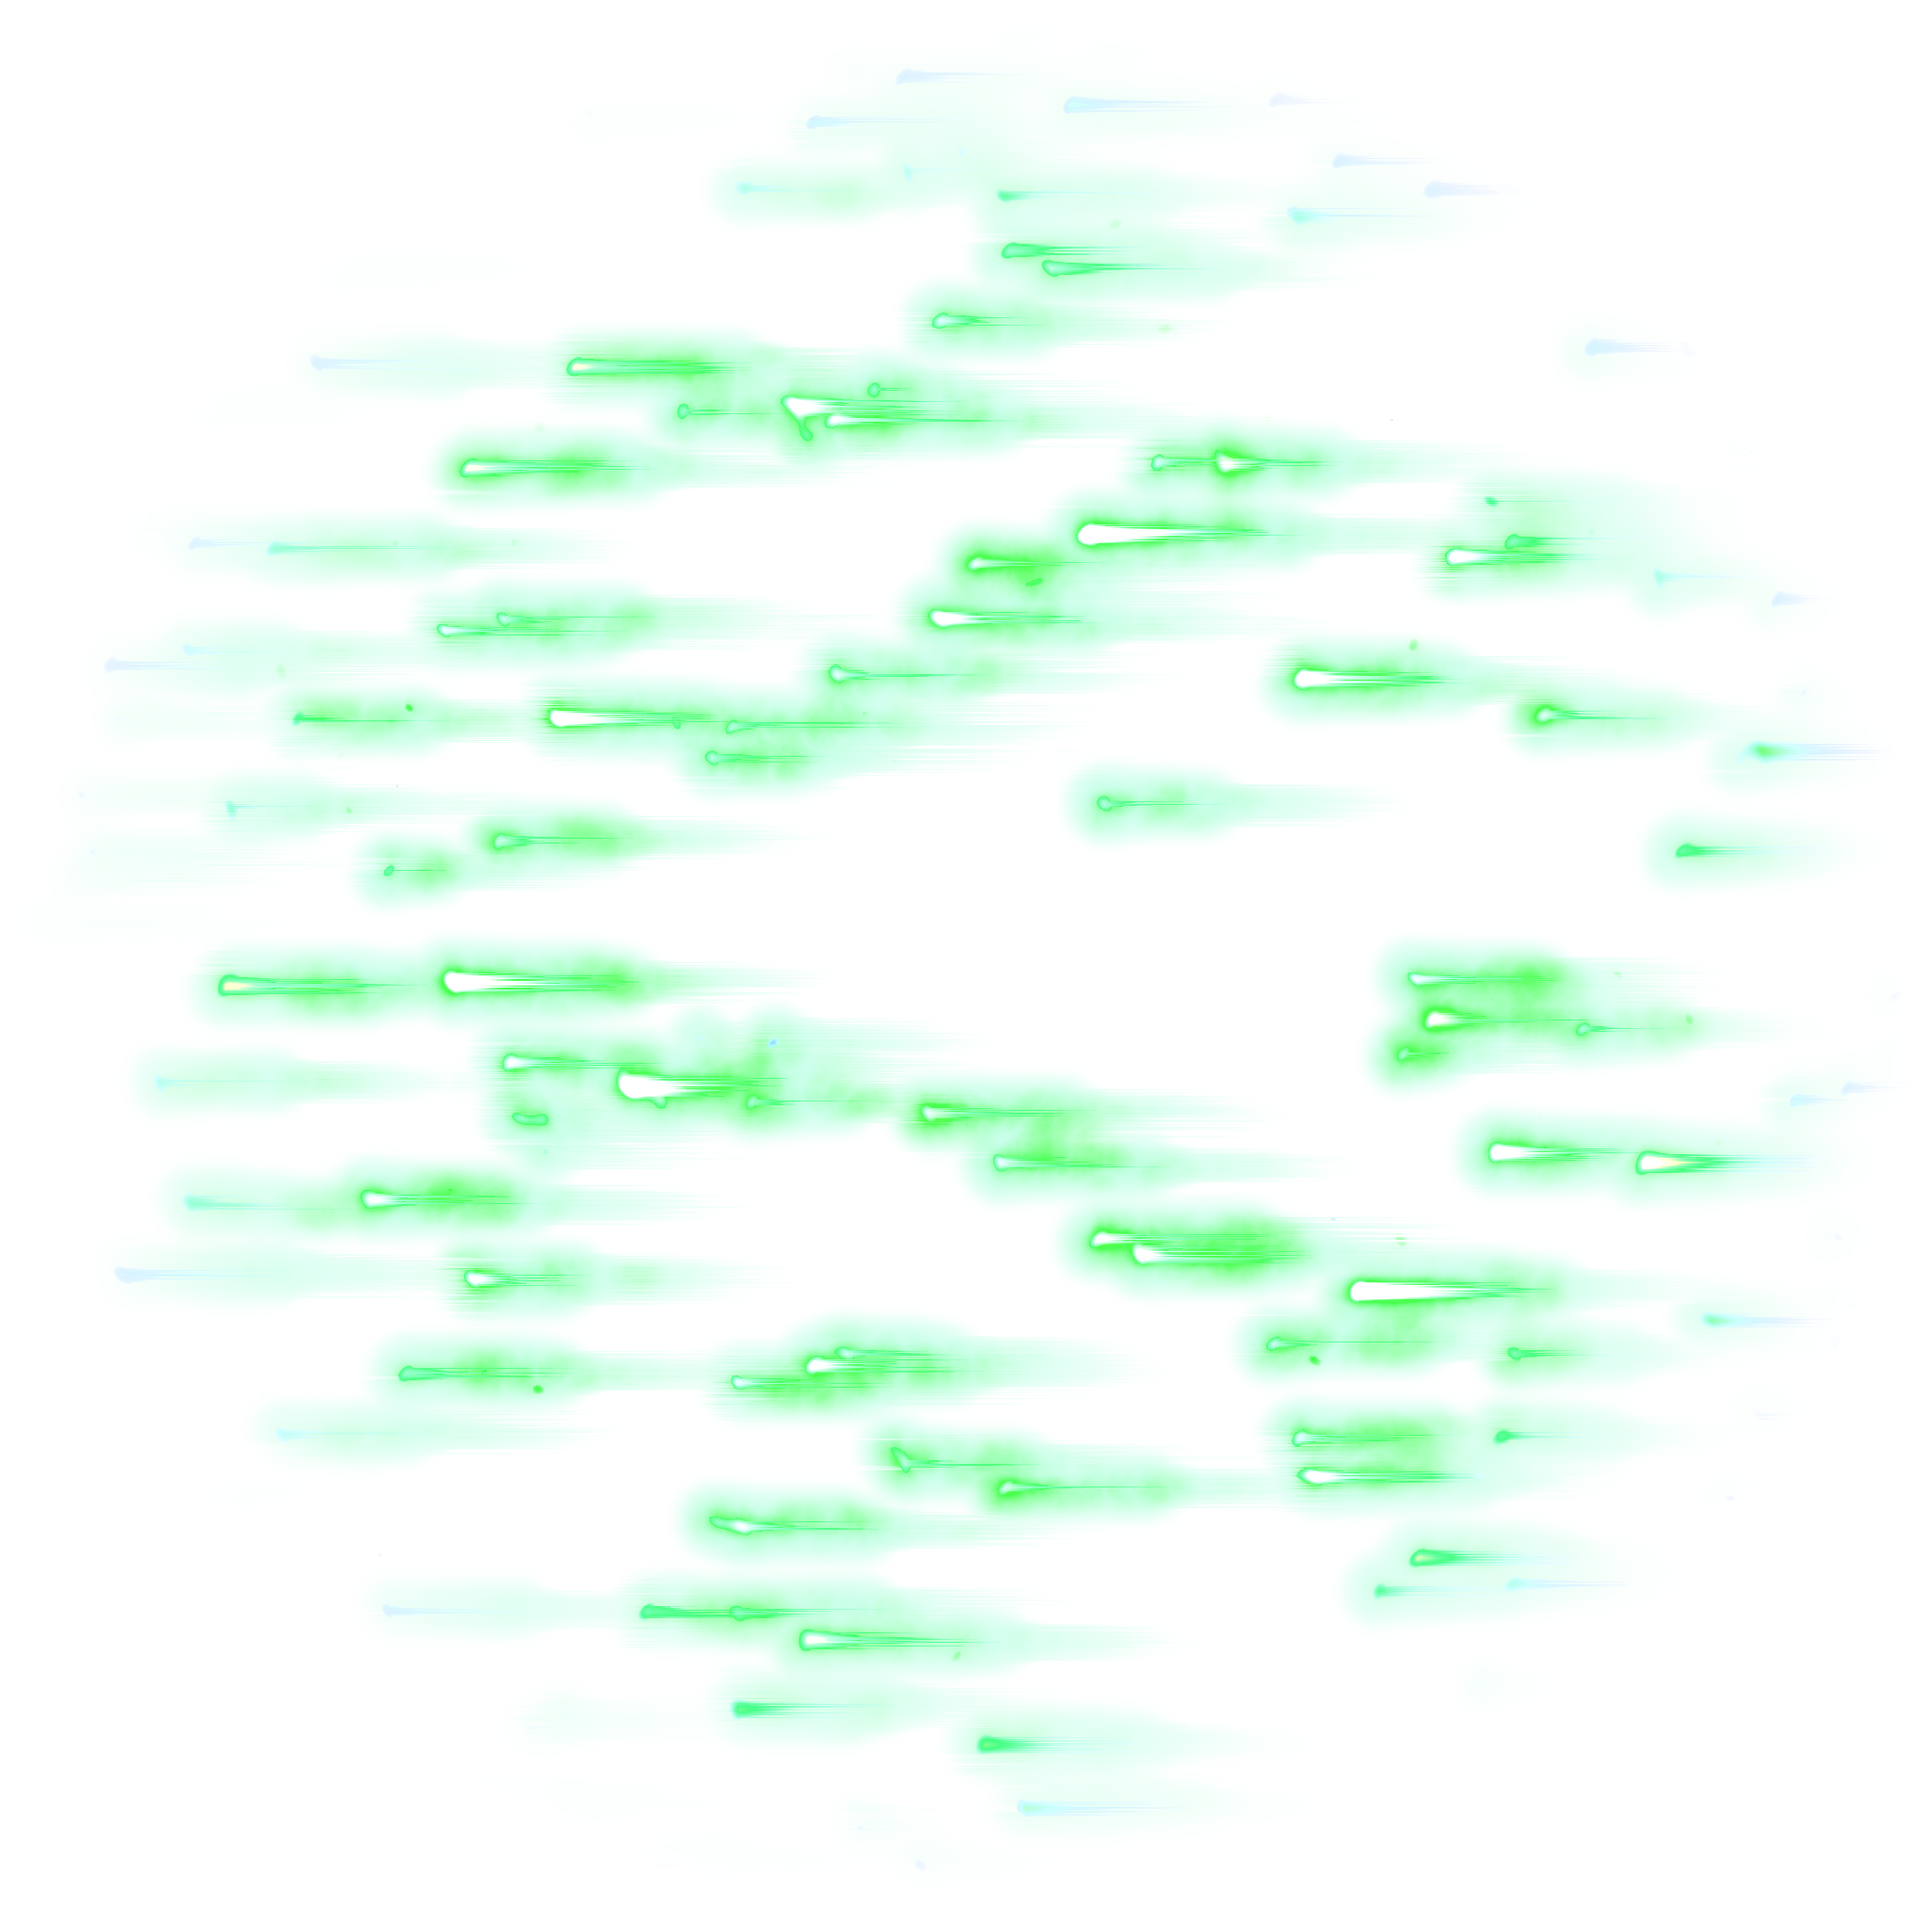
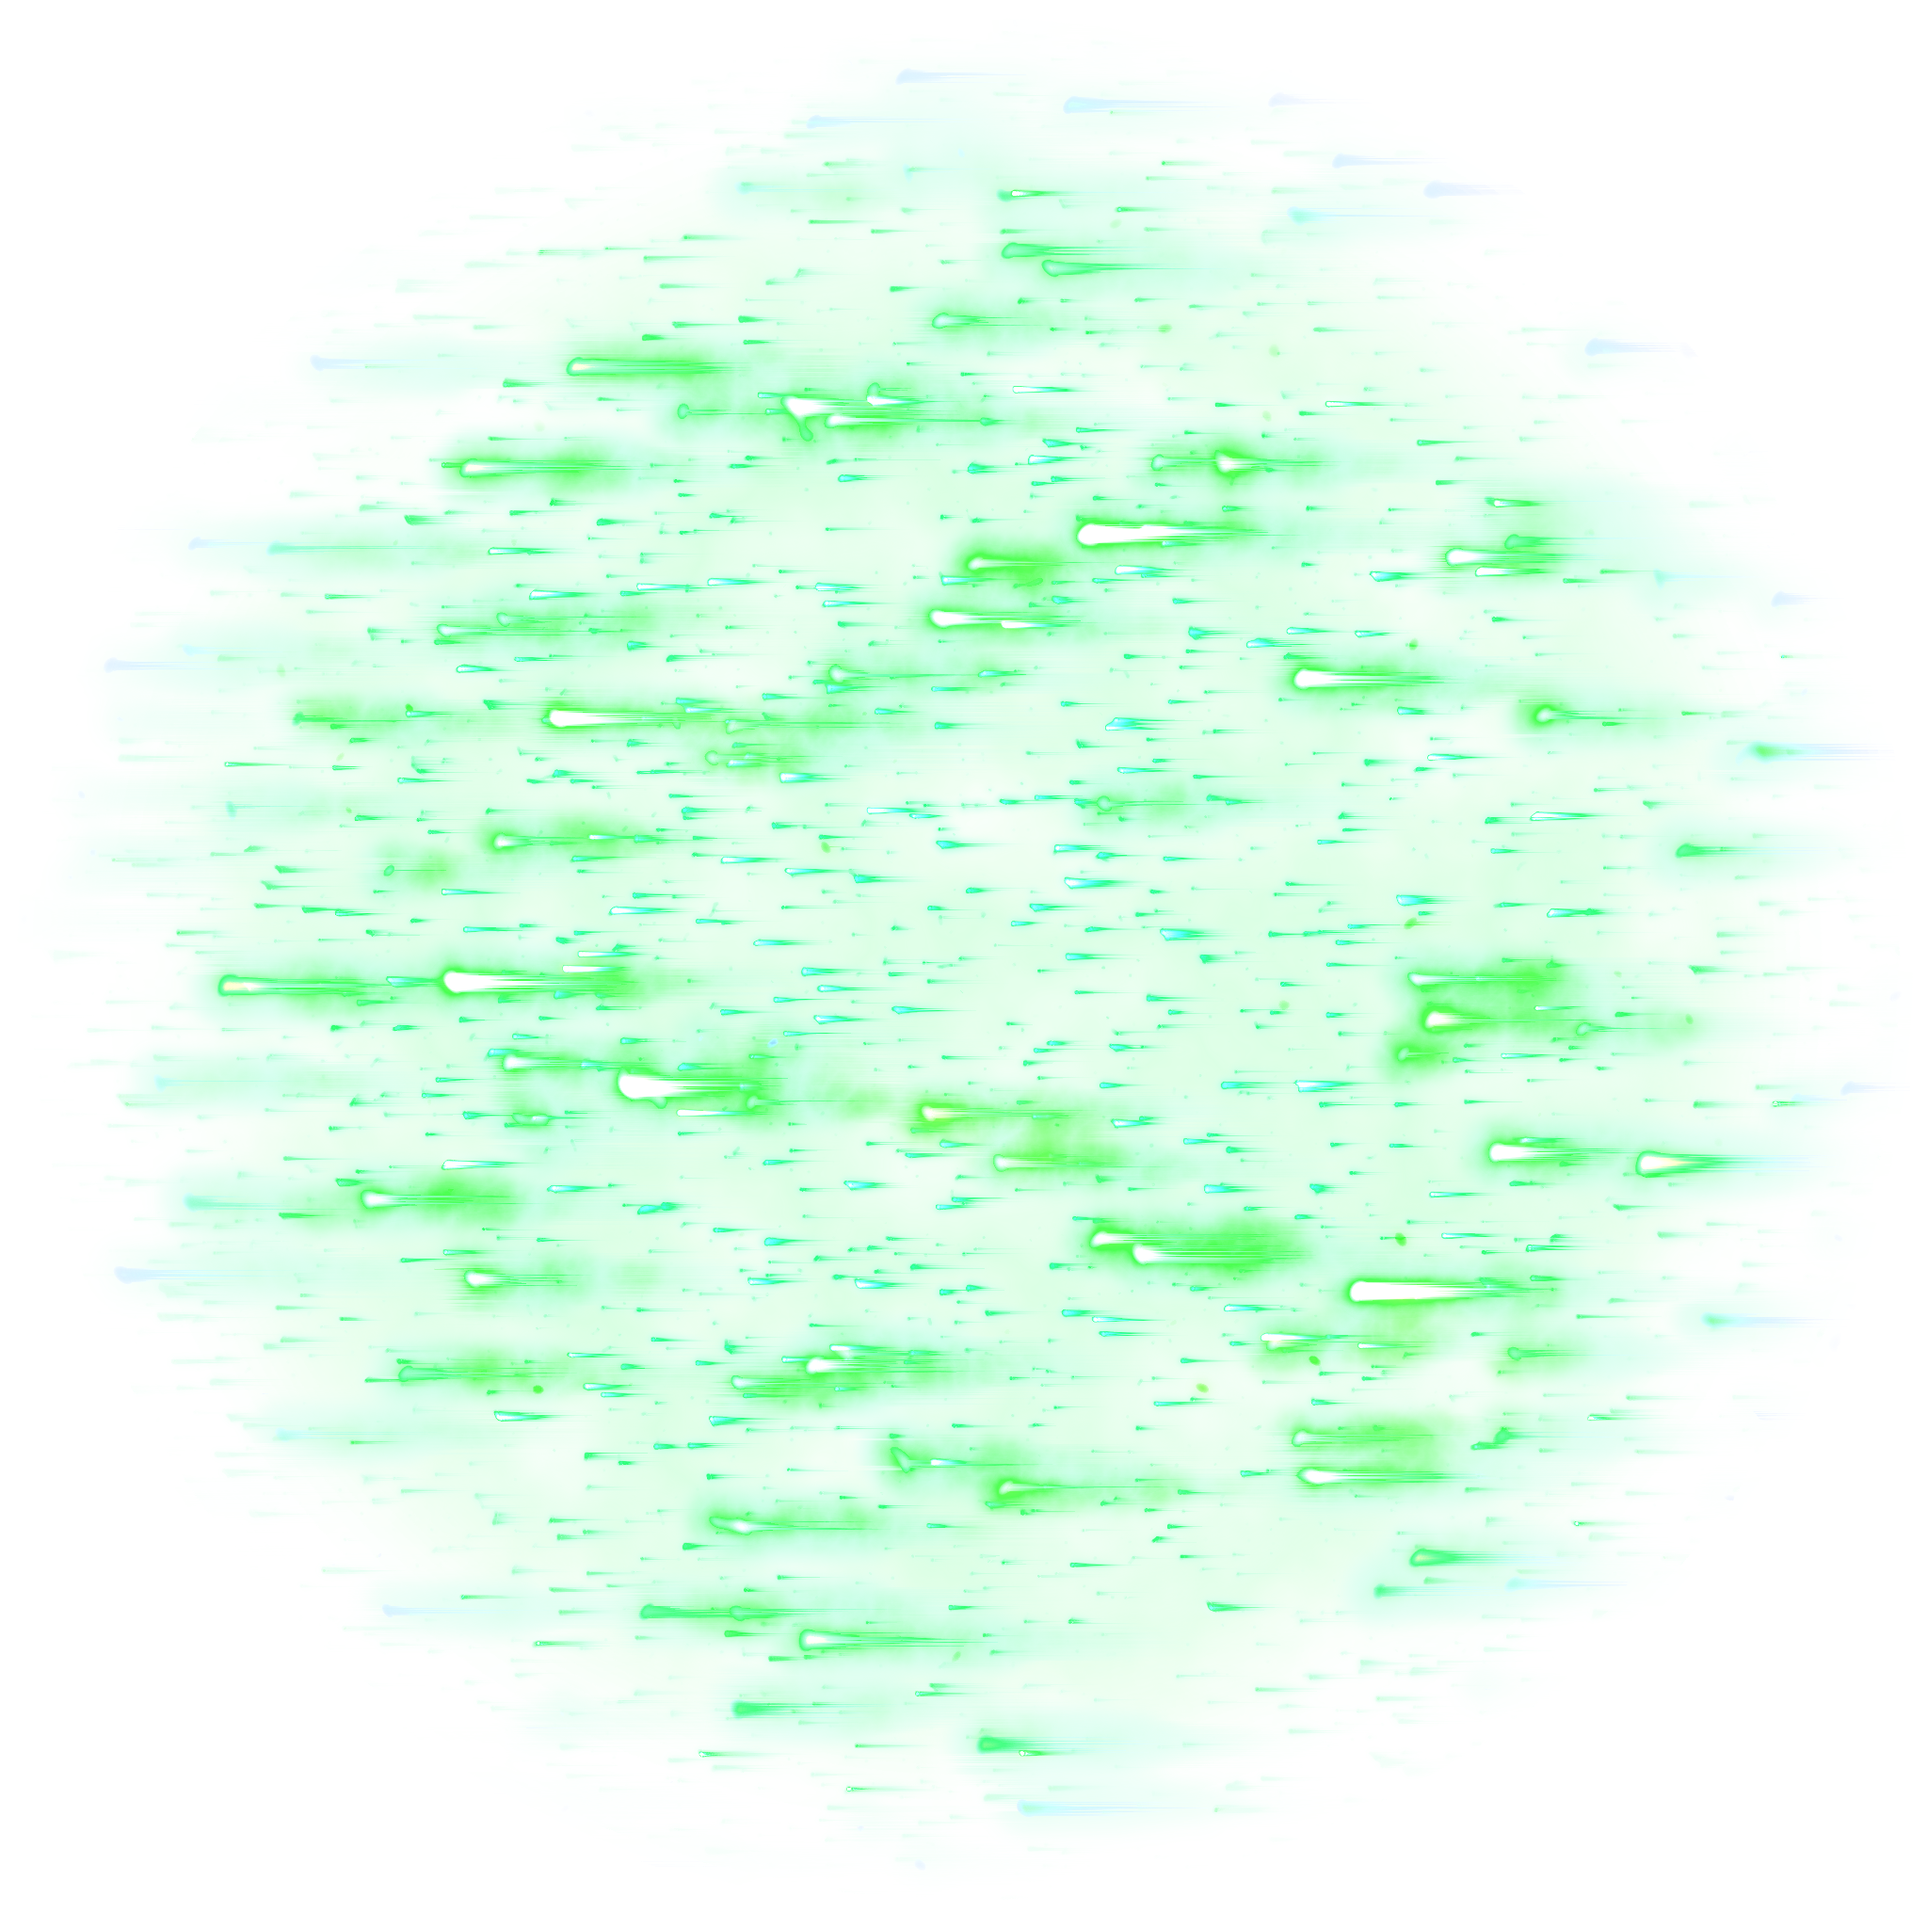
reduce size of star forming nebulae
reduce occurrence of star forming nebulae to 10-15% in empty systems (was 10-20%)

spawn fields anywhere, not just on the periphery

reduce field appearance chance

decrease effect area of all fields by 5%

diff --git a/default/python/turn_events/turn_events.py b/default/python/turn_events/turn_events.py
@@ -26,16 +26,14 @@ def execute_turn_events():
         5: "FLD_VOID_RIFT"
     }
 
-    if random() < max(0.0003 * radius, 0.03):
+    if random() < max(0.00015 * radius, 0.03):
         field_type = field_types.get(randint(1, 5), "FLD_ERROR")
         size = 5.0
         x = y = radius
-        dist_from_center = 0.0
-        while (dist_from_center < radius) or any(hypot(fo.get_x(s) - x, fo.get_y(s) - y) < 50.0 for s in systems):
-            angle = random() * 2.0 * pi
-            dist_from_center = radius + uniform(min(max(radius * 0.02, 10), 50.0), min(max(radius * 0.05, 20), 100.0))
-            x = radius + (dist_from_center * sin(angle))
-            y = radius + (dist_from_center * cos(angle))
+        dist_from_center = uniform(0.35, 1.0) * radius
+        angle = random() * 2.0 * pi
+        x = radius + (dist_from_center * sin(angle))
+        y = radius + (dist_from_center * cos(angle))
 
         print("...creating new", field_type, "field, at distance", dist_from_center, "from center")
         if fo.create_field(field_type, x, y, size) == fo.invalid_object():

diff --git a/default/python/universe_generation/fields.py b/default/python/universe_generation/fields.py
@@ -16,8 +16,8 @@ def generate_fields(systems):
     if not candidates:
         print("...no empty no star systems found, no fields created")
         return
-    # pick 10-20% of all empty no star systems to create stationary fields in them, but at least one
-    accepted = sample(candidates, max(int(len(candidates) * uniform(0.1, 0.2)), 1))
+    # pick 10-15% of all empty no star systems to create stationary fields in them, but at least one
+    accepted = sample(candidates, max(int(len(candidates) * uniform(0.1, 0.15)), 1))
     for system in accepted:
         # randomly pick a field type
         field_type = choice(["FLD_NEBULA_1", "FLD_NEBULA_2"])
